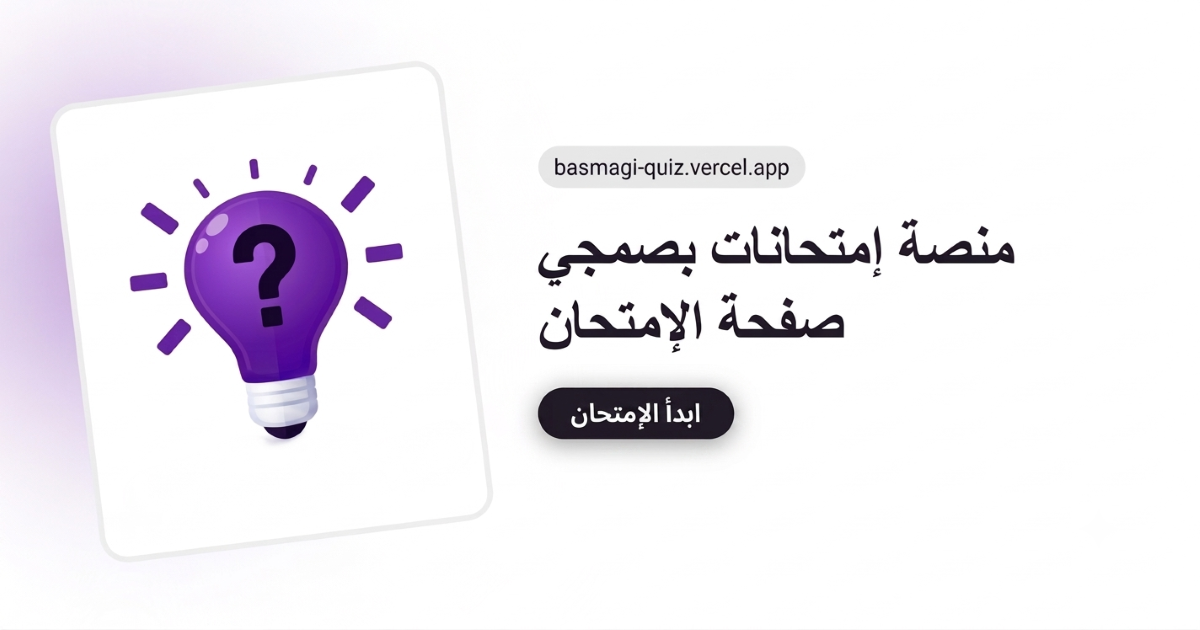
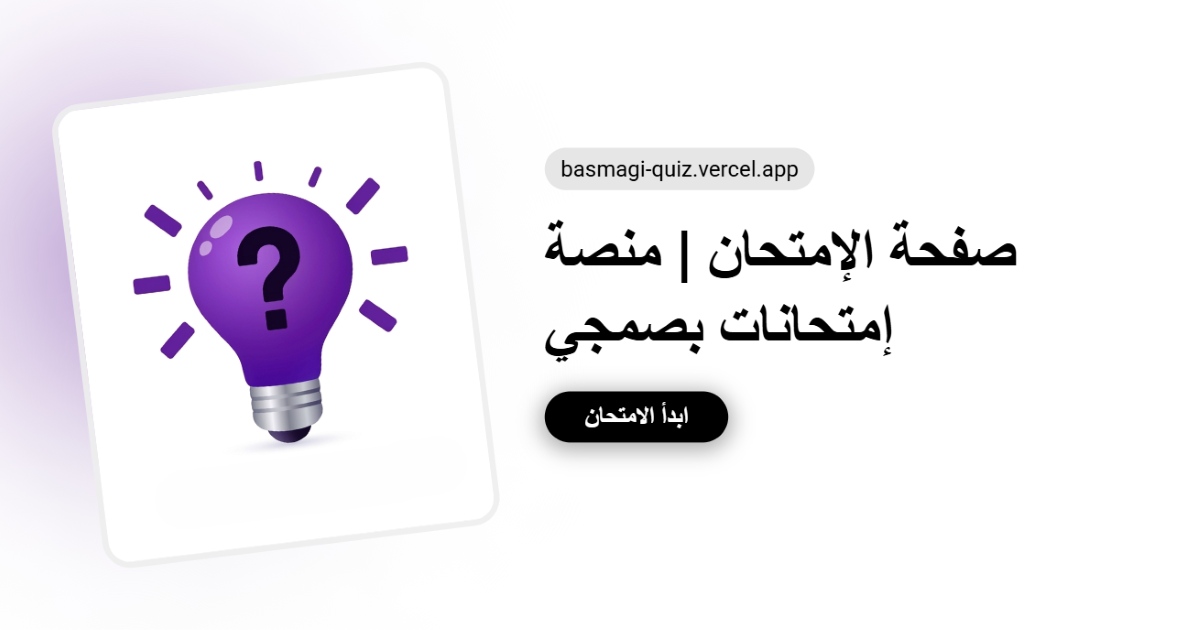
Fixed thumbnails' dimentions | Added missing meta in HTML Pages

diff --git a/public/result.html b/public/result.html
@@ -11,6 +11,7 @@
     <meta name="viewport" content="width=device-width, initial-scale=1.0">
 
     <!-- Open Graph -->
+    <meta name="description" content="اعرف نتائج إمتحاناتك ونزل الإجابات بطرق مختلفة">
     <meta property="og:type" content="website">
     <meta property="og:url" content="https://basmagi-quiz.vercel.app/results.html">
     <meta property="og:title" content="نتائج الإمتحان">
@@ -19,6 +20,8 @@
     <meta property="og:image" content="https://basmagi-quiz.vercel.app/assets/images/thumbnails/result-thumbnail.png">
     <meta property="og:image:width" content="1200">
     <meta property="og:image:height" content="630">
+    <meta property="og:site_name" content="منصة إمتحانات بصمجي">
+    <meta property="og:locale" content="ar_AR">
 
     <!-- Twitter Card -->
     <meta name="twitter:card" content="summary_large_image" />

diff --git a/public/control.html b/public/control.html
@@ -14,7 +14,7 @@
     <meta name="author" content="بلال عمرو محمد" />
     <meta name="robots" content="index, follow" />
     <meta name="theme-color" content="#1a1a2e" />
-    <meta property="og:logo" content="https://basmagi-quiz.vercel.app/favicon.png" />
+    <meta name="description" content="الصفحة السرية الخاصة بمطور المنصة">
 
     <!-- Open Graph -->
     <meta property="og:type" content="website" />
@@ -27,6 +27,7 @@
     <meta property="og:image:alt" content="صفحة المطوّر | منصة إمتحانات بصمجي">
     <meta property="og:site_name" content="منصة إمتحانات بصمجي">
     <meta property="og:locale" content="ar_AR">
+    <meta property="og:logo" content="https://basmagi-quiz.vercel.app/favicon.png" />
 
     <!-- Twitter Card -->
     <meta name="twitter:card" content="summary_large_image" />

diff --git a/public/dashboard.html b/public/dashboard.html
@@ -8,6 +8,7 @@
     <link rel="icon" href="favicon.png" type="image/png">
     <link rel="shortcut icon" href="favicon.ico" />
     <link rel="icon" type="image/svg+xml" href="favicon.svg" />
+    <meta name="description" content="اللائحة: تتبع مستواك في التعلم عن طريق نظام متكامل، واحفظ الأسئلة التي تريدها، واحصل على تاريخ إمتحاناتك">
 
     <!-- Open Graph Meta Tags -->
     <meta property="og:type" content="website">

diff --git a/public/quiz.html b/public/quiz.html
@@ -12,6 +12,7 @@
     <meta name="viewport" content="width=device-width, initial-scale=1.0">
     <meta http-equiv="X-UA-Compatible" content="IE=edge">
     <meta name="theme-color" content="#0088cc">
+    <meta name="description" content="أقل من 5% من الناس تقدر تختم اغلب الإمتحانات، هل انت واحد منهم؟">
 
     <!-- Open Graph -->
     <meta property="og:type" content="website">
